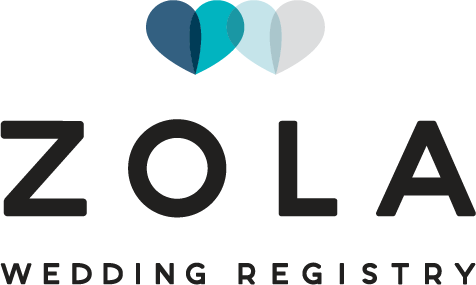
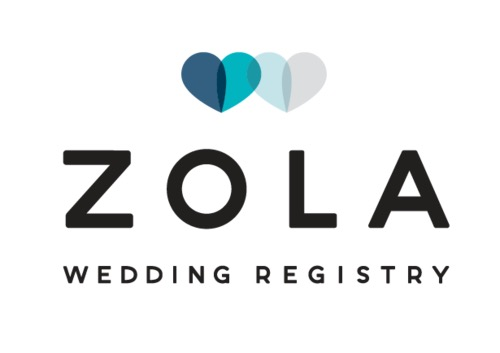
new jpg and add link to zola

diff --git a/index.html b/index.html
@@ -72,7 +72,7 @@ layout: landing
 				<section class="spotlight">
 					<div class="image"><img src="images/pic06.jpg" alt="" /></div><div class="content">
 						<h2>Registry</h2>
-						<p>You can find our registry up on Zola.
+						<p><a href="https://www.zola.com/registry/jordanandaaronc">You can find our registry up on Zola.</a>
 						</p>
 					</div>
 				</section>
